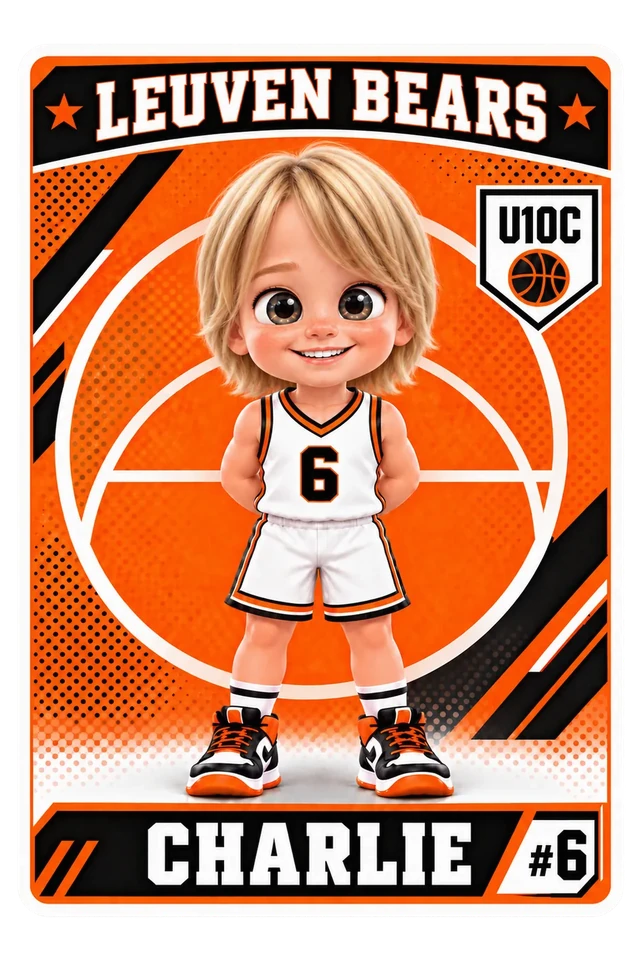
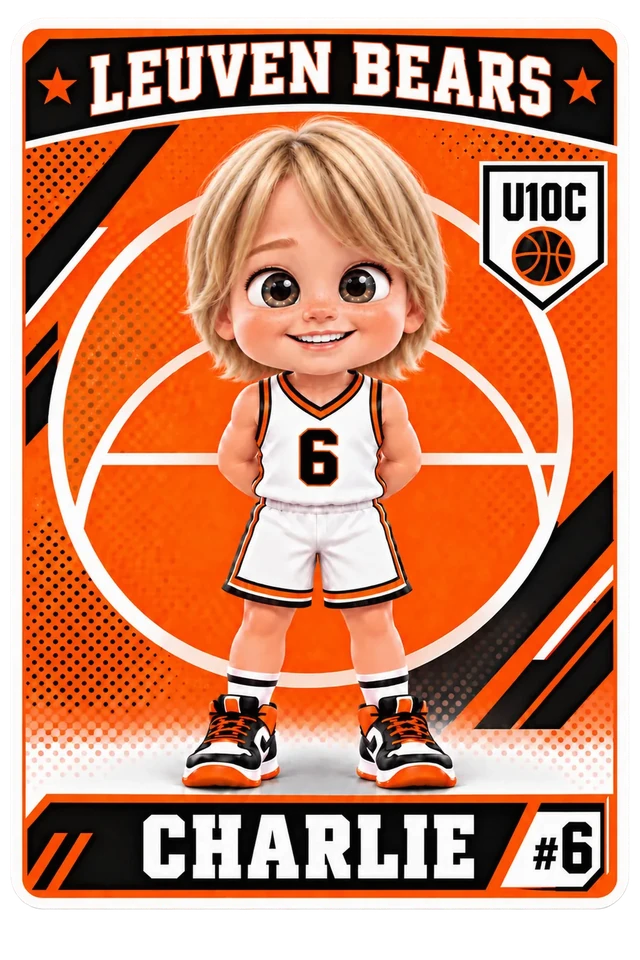
Refresh Charlie #6 and Ilya #7 stickers on preview.
Write the attached cards onto charlie.webp and ilya.webp, keep each on the matching player, and bust both sticker caches.

diff --git a/src/data/players.ts b/src/data/players.ts
@@ -90,7 +90,7 @@ export const players: Player[] = [
     move: 'step-back',
     moveLabel: 'Step-back',
     look: { hair: '#fff1c2', skin: '#fadcc4', hairStyle: 'side' },
-    stickerSrc: '/stickers/charlie.webp?v=20260918b',
+    stickerSrc: '/stickers/charlie.webp?v=20260918q',
   },
   {
     id: 'p2',
@@ -102,7 +102,7 @@ export const players: Player[] = [
     move: 'finger-spin',
     moveLabel: 'Vingerspin',
     look: { hair: '#1f1410', skin: '#efc09a', hairStyle: 'short' },
-    stickerSrc: '/stickers/ilya.webp?v=20260918b',
+    stickerSrc: '/stickers/ilya.webp?v=20260918r',
   },
   {
     id: 'p7',
